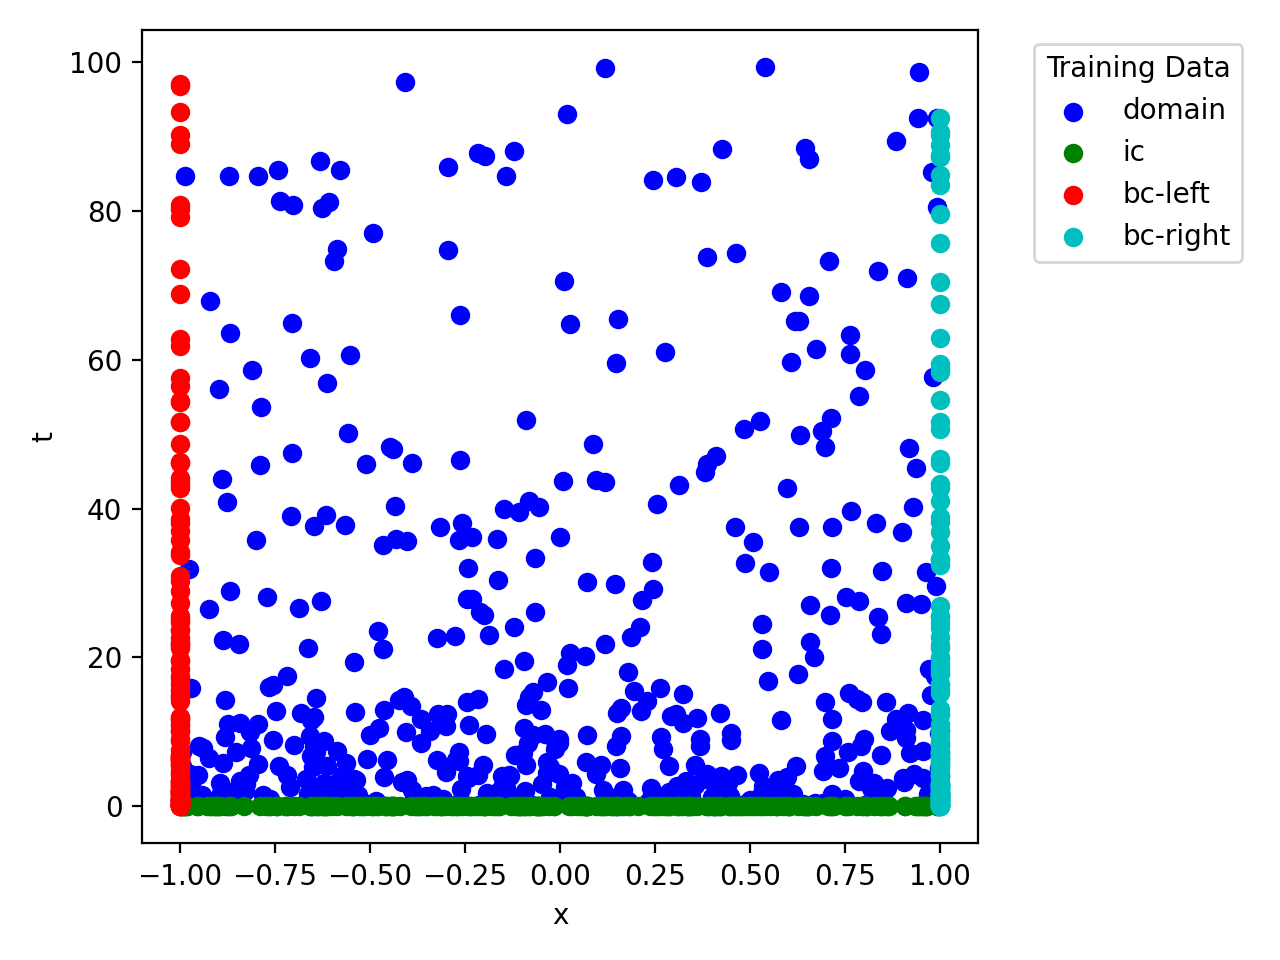
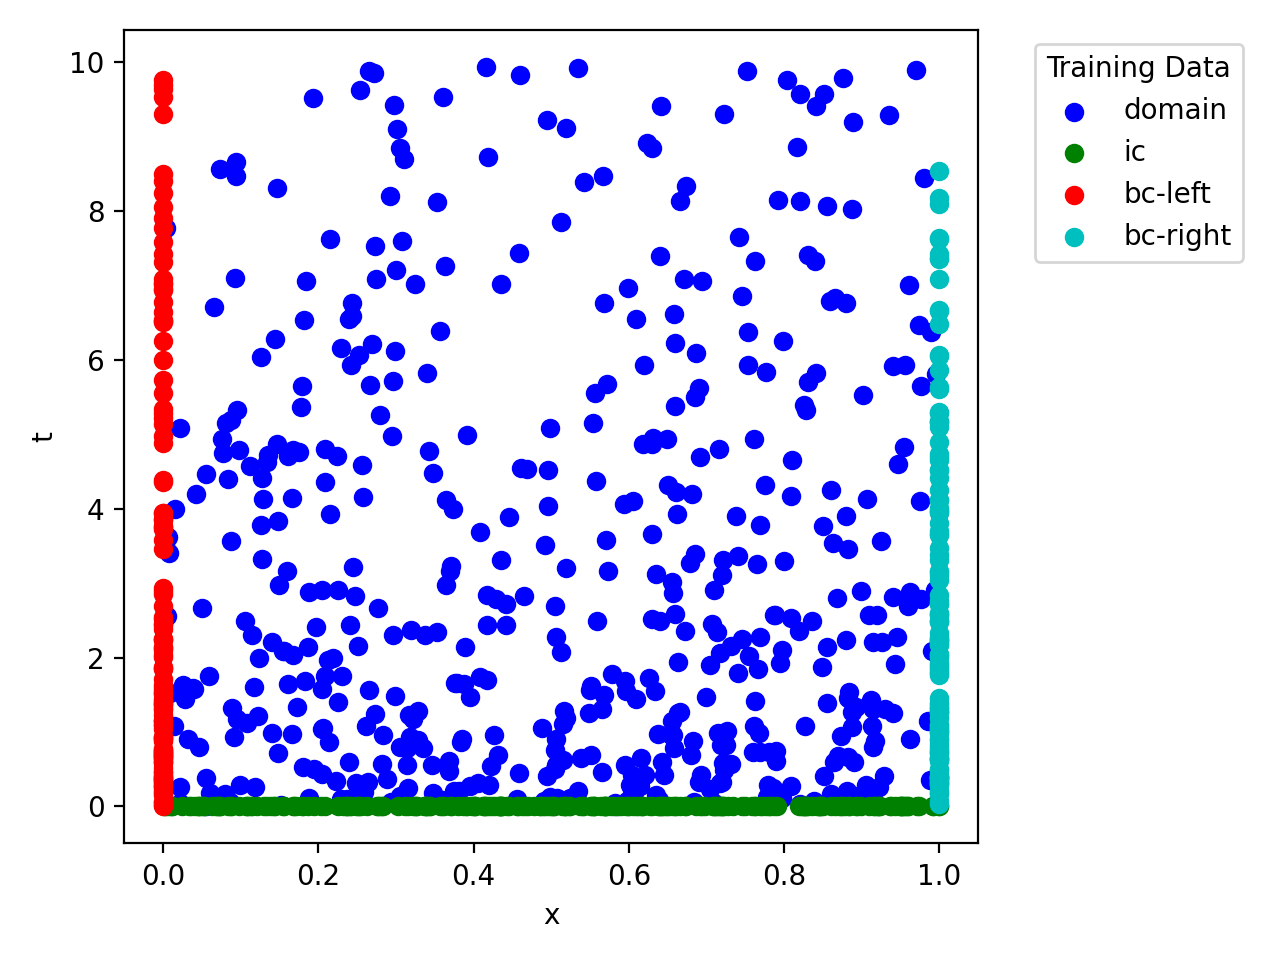
minor

diff --git a/SciANN-DataGenerator/sciann-datagenerator.py b/SciANN-DataGenerator/sciann-datagenerator.py
@@ -612,7 +612,7 @@ def ex3():
         T=[0., 100.],
         targets=['domain', 'ic', 'bc-left', 'bc-right'], 
         num_sample=1000,
-        logT=True
+        logT=False
     )
     dg.plot_data()
     dg.plot_sample_batch(100)
